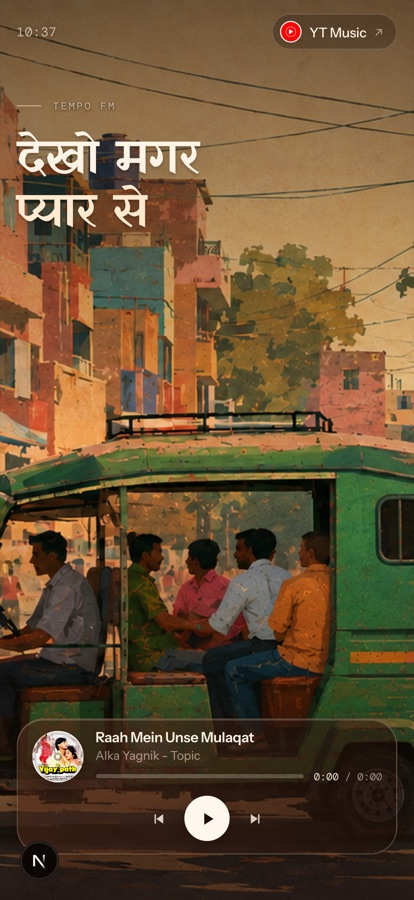
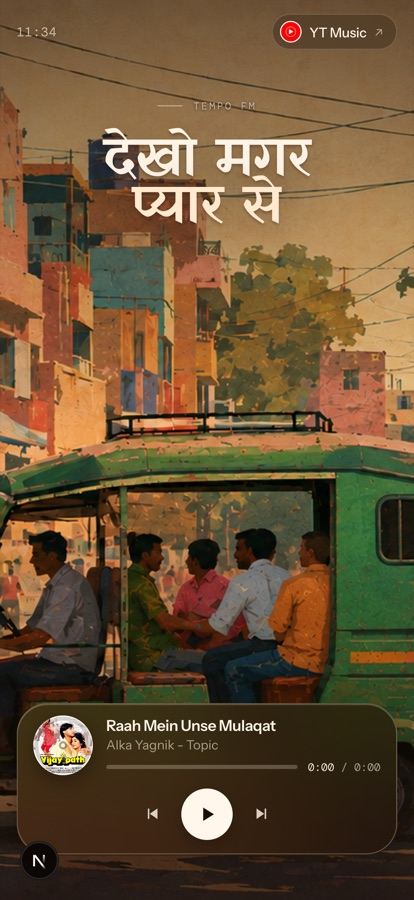
Fix player glass blur, centre the hero, scale up the type
The minifier was collapsing the backdrop-filter / -webkit-backdrop-filter pair
down to the prefixed form alone, which current Chrome no longer supports — so
the player had no blur at all. Declaring only the standard property lets the
build emit both.

- Hero lockup centred horizontally, larger display size, tighter leading
- Player back to a fuller height: 68px artwork, 52px transport, roomier padding
- Favicon is now a generated Yatra One mark; the 3:2 source could not read at 16px

diff --git a/components/TempoPlayer/tempo-player.css b/components/TempoPlayer/tempo-player.css
@@ -3,19 +3,20 @@
   display: grid;
   grid-template-columns: auto minmax(0, 1fr) auto;
   align-items: center;
-  gap: clamp(.75rem, 1.6vw, 1.1rem);
-  padding: .45rem .6rem .45rem .45rem;
+  gap: clamp(.9rem, 1.8vw, 1.3rem);
+  padding: .65rem .85rem .65rem .65rem;
   color: #fff4e6;
-  background: linear-gradient(104deg, rgba(78, 40, 25, .6), rgba(28, 14, 9, .58));
-  border: 1px solid rgba(255, 233, 208, .24);
+  background: linear-gradient(104deg, rgba(84, 44, 28, .42), rgba(30, 15, 10, .4));
+  border: 1px solid rgba(255, 233, 208, .26);
   border-radius: 999px;
-  box-shadow: 0 18px 48px rgba(16, 7, 3, .4), inset 0 1px 0 rgba(255, 246, 234, .18);
-  backdrop-filter: blur(30px) saturate(135%);
-  -webkit-backdrop-filter: blur(30px) saturate(135%);
+  box-shadow: 0 20px 54px rgba(16, 7, 3, .42), inset 0 1px 0 rgba(255, 246, 234, .2);
+  /* No manual -webkit- twin here: the minifier collapses the pair and keeps only
+     the prefixed one, which modern Chrome no longer supports. It adds prefixes itself. */
+  backdrop-filter: blur(48px) saturate(150%);
 }
 
 /* ---------- artwork ---------- */
-.art { position: relative; width: 56px; height: 56px; flex: none; }
+.art { position: relative; width: 68px; height: 68px; flex: none; }
 .art img {
   width: 100%; height: 100%;
   display: block;
@@ -35,9 +36,9 @@
 .track-info h2 {
   margin: 0 0 .12rem;
   overflow: hidden;
-  font-size: clamp(.86rem, 1.15vw, .96rem);
+  font-size: clamp(.92rem, 1.35vw, 1.04rem);
   font-weight: 600;
-  line-height: 1.22;
+  line-height: 1.24;
   letter-spacing: -.015em;
   white-space: nowrap;
   text-overflow: ellipsis;
@@ -46,12 +47,12 @@
   margin: 0;
   overflow: hidden;
   color: rgba(255, 244, 230, .58);
-  font-size: .73rem;
+  font-size: .78rem;
   white-space: nowrap;
   text-overflow: ellipsis;
 }
-.scrub { display: flex; align-items: center; gap: .6rem; margin-top: .38rem; }
-.times { flex: none; color: rgba(255, 244, 230, .55); font-family: var(--font-mono), ui-monospace, monospace; font-size: .63rem; font-variant-numeric: tabular-nums; }
+.scrub { display: flex; align-items: center; gap: .65rem; margin-top: .5rem; }
+.times { flex: none; color: rgba(255, 244, 230, .58); font-family: var(--font-mono), ui-monospace, monospace; font-size: .67rem; font-variant-numeric: tabular-nums; }
 .times b { color: rgba(255, 244, 230, .9); font-weight: 400; }
 
 /* ---------- range inputs ---------- */
@@ -89,11 +90,11 @@
 .tempo-player input[type=range]:focus-visible::-moz-range-thumb { opacity: 1; }
 
 /* ---------- controls ---------- */
-.controls { display: flex; align-items: center; gap: .2rem; }
+.controls { display: flex; align-items: center; gap: .26rem; }
 .controls .ghost {
   display: grid;
   place-items: center;
-  width: 30px; height: 30px;
+  width: 34px; height: 34px;
   padding: 0;
   color: rgba(255, 244, 230, .82);
   background: none;
@@ -102,12 +103,12 @@
   transition: color .18s ease, background .18s ease;
 }
 .controls .ghost:hover { color: #fff; background: rgba(255, 240, 222, .12); }
-.controls svg { width: 17px; height: 17px; fill: currentColor; }
+.controls svg { width: 19px; height: 19px; fill: currentColor; }
 .controls .play {
   display: grid;
   place-items: center;
-  width: 44px; height: 44px;
-  margin: 0 .15rem;
+  width: 52px; height: 52px;
+  margin: 0 .18rem;
   padding: 0;
   color: #1c0e08;
   background: #fff6ec;
@@ -118,7 +119,7 @@
 }
 .controls .play:hover { transform: scale(1.06); }
 .controls .play:disabled { opacity: .55; cursor: progress; }
-.controls .play svg { width: 19px; height: 19px; }
+.controls .play svg { width: 22px; height: 22px; }
 
 .counter {
   margin-right: .5rem;
@@ -163,16 +164,16 @@
 @media (max-width: 700px) {
   .tempo-player {
     grid-template-columns: auto minmax(0, 1fr);
-    gap: .75rem;
-    padding: .6rem .85rem .75rem;
-    border-radius: 26px;
+    gap: .8rem;
+    padding: .7rem .95rem .85rem;
+    border-radius: 30px;
   }
-  .art { width: 50px; height: 50px; }
-  .art-ring { box-shadow: inset 0 0 0 3px rgba(20, 10, 6, .16); }
-  .scrub { margin-top: .4rem; }
-  .controls { grid-column: 1 / -1; justify-content: center; gap: .45rem; }
+  .art { width: 58px; height: 58px; }
+  .art-ring { box-shadow: inset 0 0 0 4px rgba(20, 10, 6, .16); }
+  .scrub { margin-top: .45rem; }
+  .controls { grid-column: 1 / -1; justify-content: center; gap: .5rem; }
   .volume, .counter { display: none; }
-  .controls .play { width: 44px; height: 44px; }
+  .controls .play { width: 50px; height: 50px; }
   .ready { left: 1.3rem; }
   .is-message { padding: .9rem 1.2rem; }
 }

diff --git a/app/globals.css b/app/globals.css
@@ -67,7 +67,6 @@ button { cursor: pointer; }
   border: 1px solid rgba(255, 236, 214, .18);
   border-radius: 999px;
   backdrop-filter: blur(14px);
-  -webkit-backdrop-filter: blur(14px);
   transition: background .2s ease, border-color .2s ease;
 }
 .chip:hover { background: rgba(48, 26, 16, .46); border-color: rgba(255, 236, 214, .34); }
@@ -75,11 +74,12 @@ button { cursor: pointer; }
 .chip-arrow { font-size: .68rem; opacity: .55; }
 
 /* ---------- player + hero placement ---------- */
-.player-slot { width: min(100%, 620px); margin: auto auto 0; flex: none; }
-.hero-title { margin: clamp(1rem, 4vh, 3rem) 0 0; flex: none; }
+.player-slot { width: min(100%, 690px); margin: auto auto 0; flex: none; }
+.hero-title { margin: clamp(1rem, 4vh, 3rem) 0 0; flex: none; text-align: center; }
 .kicker {
   display: flex;
   align-items: center;
+  justify-content: center;
   gap: .7rem;
   margin: 0 0 clamp(1rem, 2.6vh, 1.8rem);
   color: rgba(255, 244, 230, .62);
@@ -92,13 +92,13 @@ button { cursor: pointer; }
 .kicker .rule { width: clamp(24px, 4vw, 52px); height: 1px; background: rgba(255, 244, 230, .5); }
 .hero-title h1 {
   display: grid;
-  justify-items: start;
-  gap: clamp(.1rem, .8vh, .5rem);
+  justify-items: center;
+  gap: 0;
   margin: 0;
   font-family: var(--font-display), serif;
   font-weight: 400;
-  font-size: clamp(2.9rem, 9vw, 7.4rem);
-  line-height: .98;
+  font-size: clamp(3.3rem, 10.2vw, 8.6rem);
+  line-height: .88;
   letter-spacing: -.005em;
   text-shadow: 0 2px 3px rgba(38, 14, 6, .28), 0 16px 50px rgba(26, 10, 4, .55);
 }

diff --git a/app/_assets/mark.tsx b/app/_assets/mark.tsx
@@ -1,0 +1,30 @@
+import { readFileSync } from "node:fs";
+import { join } from "node:path";
+import { ImageResponse } from "next/og";
+
+const font = readFileSync(join(process.cwd(), "app/_assets/YatraOne-Regular.ttf"));
+
+/** टे — the first syllable of टेम्पो, sized to stay legible down to 16px. */
+export function renderMark(edge: number) {
+  return new ImageResponse(
+    (
+      <div
+        style={{
+          display: "flex",
+          alignItems: "center",
+          justifyContent: "center",
+          width: "100%",
+          height: "100%",
+          background: "#b23324",
+          color: "#fff4e6",
+          fontFamily: "Yatra One",
+          fontSize: edge * 0.82,
+          paddingTop: edge * 0.26,
+        }}
+      >
+        टे
+      </div>
+    ),
+    { width: edge, height: edge, fonts: [{ name: "Yatra One", data: font, weight: 400, style: "normal" }] },
+  );
+}

diff --git a/app/apple-icon.tsx b/app/apple-icon.tsx
@@ -1,0 +1,8 @@
+import { renderMark } from "./_assets/mark";
+
+export const size = { width: 180, height: 180 };
+export const contentType = "image/png";
+
+export default function AppleIcon() {
+  return renderMark(size.width);
+}

diff --git a/app/icon.tsx b/app/icon.tsx
@@ -1,0 +1,8 @@
+import { renderMark } from "./_assets/mark";
+
+export const size = { width: 512, height: 512 };
+export const contentType = "image/png";
+
+export default function Icon() {
+  return renderMark(size.width);
+}
